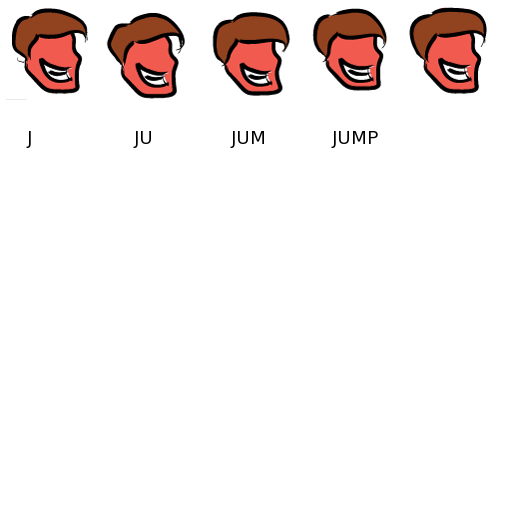
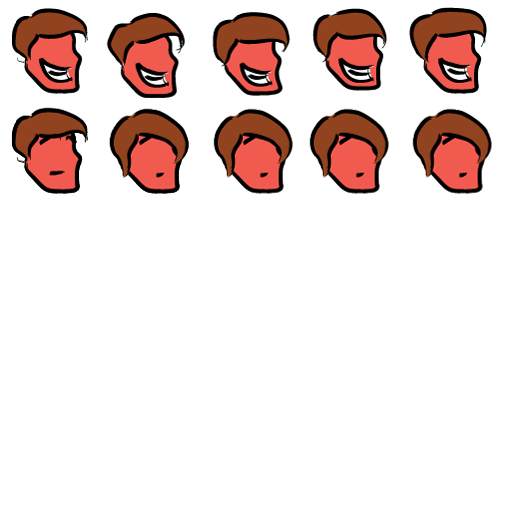
New background, fixed stacking issue (Thanks Greg!!), moveable background map.

Changed region(s): [[0.4062, 0.1875, 0.9688, 0.4062], [0.0, 0.1875, 0.375, 0.4062]]

diff --git a/src/game_state.cpp b/src/game_state.cpp
@@ -1,7 +1,11 @@
+#include <algorithm>
+
 #include "math.h"
 #include "game_state.h"
 #include "jumper.h"
 #include "ahnold.h"
+
+bool sort_by_height (Special *i, Special *j);
 
 Game_State::Game_State(void)
 :p(NULL), c(NULL), map(NULL), gravity(true), collision(true) {}
@@ -191,42 +195,50 @@ void Game_State::update(int &delta)
         specials.at(i)->setVSpeed(0);
       }
     }
-    // we need to check for following again
-    for (unsigned int i = 0; i < specials.size();  ++i)
+    
+    // we need to check for following
+    vector<Special *>sorted_specials;
+    for (unsigned int i = 0; i < specials.size(); ++i)
     {
-      temp_speed = specials.at(i)->getVSpeed();
-      specials.at(i)->setVSpeed(GRAVITY_SPEED);
-      follow_move = specials.at(i)->will_collide_moveables_y(moveables, -1, &mov_follow);
-      follow_spec = specials.at(i)->will_collide_specials_y(specials, i, &follow);
-      specials.at(i)->setVSpeed(temp_speed);
+      sorted_specials.push_back(specials.at(i));
+    }
+    sort(sorted_specials.begin(), sorted_specials.end(), sort_by_height);
+    
+    for (unsigned int i = 0; i < sorted_specials.size();  ++i)
+    {
+      temp_speed = sorted_specials.at(i)->getVSpeed();
+      sorted_specials.at(i)->setVSpeed(GRAVITY_SPEED);
+      follow_move = sorted_specials.at(i)->will_collide_moveables_y(moveables, -1, &mov_follow);
+      follow_spec = sorted_specials.at(i)->will_collide_specials_y(sorted_specials, i, &follow);
+      sorted_specials.at(i)->setVSpeed(temp_speed);
       
       // if on special or moveable, move with them
-      if (follow_spec && follow >= 0 && !p->will_collide_Dx(specials.at(follow)))
+      if (follow_spec && follow >= 0 && !p->will_collide_Dx(sorted_specials.at(follow)))
       {
-        if (c != specials.at(i))
+        if (c != sorted_specials.at(i))
         {
-          specials.at(i)->setHSpeed(specials.at(follow)->getHSpeed());
-          specials.at(i)->setVSpeed(specials.at(follow)->getVSpeed());
+          sorted_specials.at(i)->setHSpeed(sorted_specials.at(follow)->getHSpeed());
+          sorted_specials.at(i)->setVSpeed(sorted_specials.at(follow)->getVSpeed());
         }
         else
         {
-          c->setHSpeed(c->getHSpeed() + specials.at(follow)->getHSpeed());
-          c->setVSpeed(c->getVSpeed() + specials.at(follow)->getVSpeed());
+          c->setHSpeed(c->getHSpeed() + sorted_specials.at(follow)->getHSpeed());
+          c->setVSpeed(c->getVSpeed() + sorted_specials.at(follow)->getVSpeed());
         }
       }
       else if (follow_move && mov_follow >= 0)
       {
-        specials.at(i)->setHSpeed(specials.at(i)->getHSpeed() +
+        sorted_specials.at(i)->setHSpeed(sorted_specials.at(i)->getHSpeed() +
                                   moveables.at(mov_follow)->getHSpeed());
-        specials.at(i)->setVSpeed(moveables.at(mov_follow)->getVSpeed());
+        sorted_specials.at(i)->setVSpeed(moveables.at(mov_follow)->getVSpeed());
       }
-      if (specials.at(i)->get_type() == JUMPER &&
-          specials.at(i)->get_tex_num() == ABILITY &&
-          !(specials.at(i)->will_collide_y(map) ||
-            specials.at(i)->will_collide_tile(map, LADDER, NULL) ||
-            specials.at(i)->will_collide_moveables_y(moveables, -1, NULL)))
+      if (sorted_specials.at(i)->get_type() == JUMPER &&
+          sorted_specials.at(i)->get_tex_num() == ABILITY &&
+          !(sorted_specials.at(i)->will_collide_y(map) ||
+            sorted_specials.at(i)->will_collide_tile(map, LADDER, NULL) ||
+            sorted_specials.at(i)->will_collide_moveables_y(moveables, -1, NULL)))
       {
-        specials.at(i)->setVSpeed(-JUMP_HEIGHT);
+        sorted_specials.at(i)->setVSpeed(-JUMP_HEIGHT);
       }
     }
     // move specials in the y
@@ -514,6 +526,10 @@ void Game_State::update(int &delta)
       ++delta;
     }
   }
+  else
+  {
+    p->set_cur_frame(1);
+  }
   
   // animation for specials
   // for the jumper, when jumping and at the last animation
@@ -573,6 +589,10 @@ void Game_State::update(int &delta)
       {
         specials.at(i)->set_delta(++a_delta);
       }
+    }
+    else
+    {
+      specials.at(i)->set_cur_frame(1);
     }
   }
   
@@ -889,4 +909,9 @@ void Game_State::clean(void)
     delete specials.at(i);
   }
   state_clean();
+}
+
+bool sort_by_height(Special *i, Special *j)
+{
+  return i->get_y() > j->get_y();
 }

diff --git a/src/map.cpp b/src/map.cpp
@@ -70,9 +70,17 @@ void Map::move_block(int x, int y)
   // enter code to move block 
 }
 
+void Map::move(float x, float y)
+{
+  Drawable *bg = tiles.at((int)BG);
+  ((Drawable *)this)->move(x, y);
+  bg->move(x / (get_width() * TILE_WIDTH) * (bg->get_width() - SCREEN_WIDTH * 2),
+           y / (get_height() * TILE_HEIGHT) * (bg->get_height() - SCREEN_HEIGHT * 2));
+}
+
 
 bool Map::load_map(const char *map_bmp, vector<Moveable *> &moveables,
-                   vector<Special *> &specials, Texture *tiles,
+                   vector<Special *> &specials, Texture *ts,
                    vector<Texture*> texs, Character *player,
                    FMOD_SYSTEM *system, vector<FMOD_SOUND *> musics,
                    FMOD_CHANNEL *m_channel, vector<FMOD_SOUND *> effects,
@@ -233,7 +241,7 @@ bool Map::load_map(const char *map_bmp, vector<Moveable *> &moveables,
         Moveable *move;
         get_top_left(mx, my);
         move = new Moveable(x * TILE_WIDTH + mx, y * TILE_HEIGHT + my,
-                            BLOCKS, MOVEABLE_BLOCK, tiles, true);
+                            BLOCKS, MOVEABLE_BLOCK, ts, true);
         move->set_cur_frame(MOVEABLE_BLOCK);
         moveables.push_back(move);
       }
@@ -264,7 +272,7 @@ bool Map::load_map(const char *map_bmp, vector<Moveable *> &moveables,
         float mx, my;
         get_top_left(mx, my);
         moveables.push_back(new Moveable(x * TILE_WIDTH + mx, y * TILE_HEIGHT + my,
-                                         BLOCKS, MOVEABLE_BLOCK, tiles, false));
+                                         BLOCKS, MOVEABLE_BLOCK, ts, false));
       }
       // player start position
       else if(red[0] == 255 && green[0] == 0 && blue[0] == 255)
@@ -373,6 +381,8 @@ bool Map::load_map(const char *map_bmp, vector<Moveable *> &moveables,
   
   moves = moveables;
   specs = specials;
+  
+  tiles.at((int)BG)->move(-SCREEN_WIDTH, -SCREEN_HEIGHT);
   
   return true;
 }

diff --git a/src/map.h b/src/map.h
@@ -49,13 +49,14 @@ public:
   tile_type get_tile(int x, int y) {return (tile_type) map[x][y][M_TILE];}
   void remove(int x, int y);
   void move_block(int x, int y);
+  void move(float x, float y);
   
   void calculate_location(Drawable *d, int &x, int &y);
   
   // loads map from a binary image, returns false on fail, also modifies
   // moveables so that it includes a list of all objects that can move
   bool load_map(const char *map_bmp, vector<Moveable *> &moveables,
-                vector<Special *> &specials, Texture *tiles,
+                vector<Special *> &specials, Texture *ts,
                 vector<Texture*> texs, Character *player,
                 FMOD_SYSTEM *system, vector<FMOD_SOUND *> musics,
                 FMOD_CHANNEL *m_channel, vector<FMOD_SOUND *> effects,

diff --git a/src/drawable.cpp b/src/drawable.cpp
@@ -39,8 +39,8 @@ facing_right(true)
     // background will never move and takes
     // up the entire screen
     case BACKGROUND:
-      width = SCREEN_WIDTH;
-      height = SCREEN_HEIGHT;
+      width = texture->get_width();
+      height = texture->get_height();
       break;
     case VARIABLE:
       width = texture->get_width();

diff --git a/src/game_state.h b/src/game_state.h
@@ -28,6 +28,8 @@ private:
   char key_held; // used for activating specials ability/switching to special
   bool debug;
   
+  //bool sort_by_height(Special *i, Special *j);
+  
 public:
   Game_State(void);
   Game_State(Player *pl, Map *m, vector<Moveable *> mvs,
